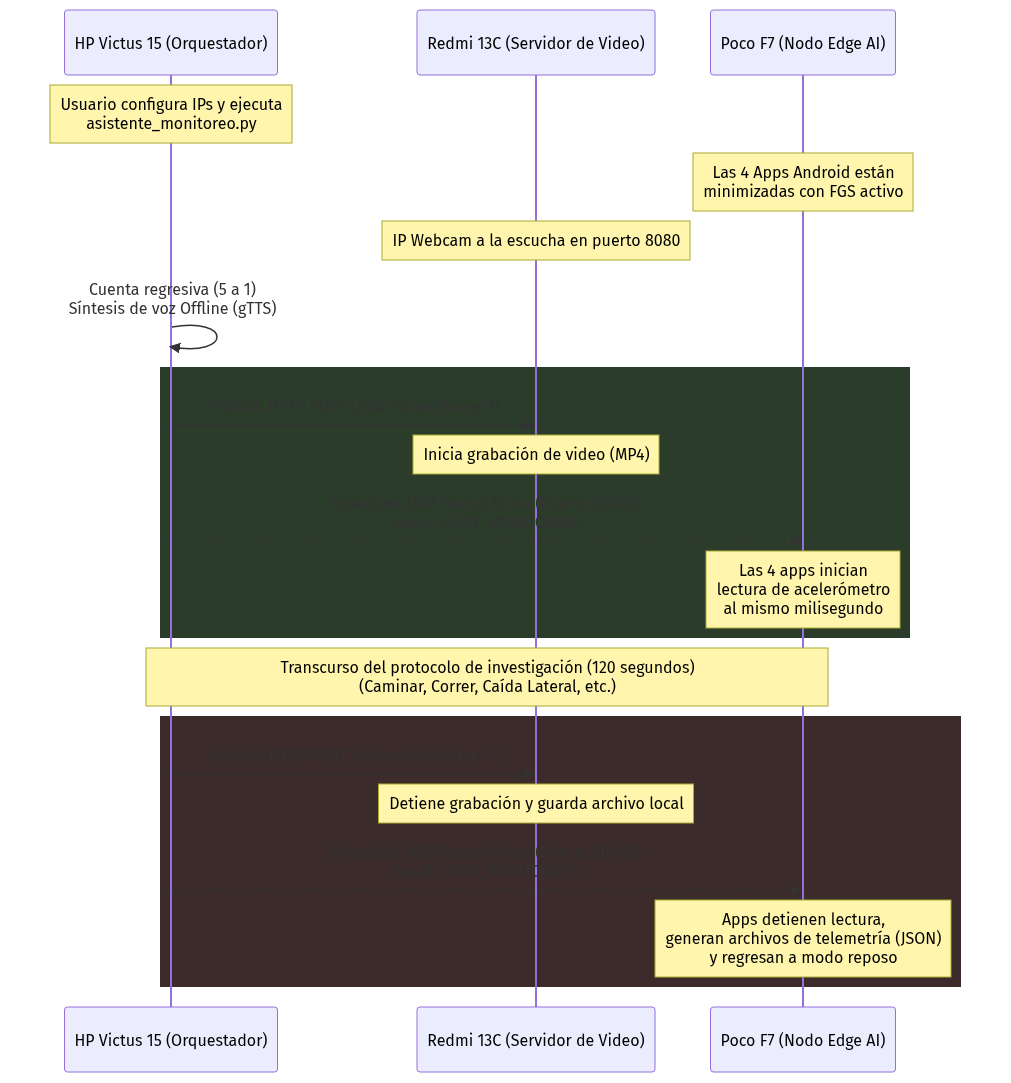
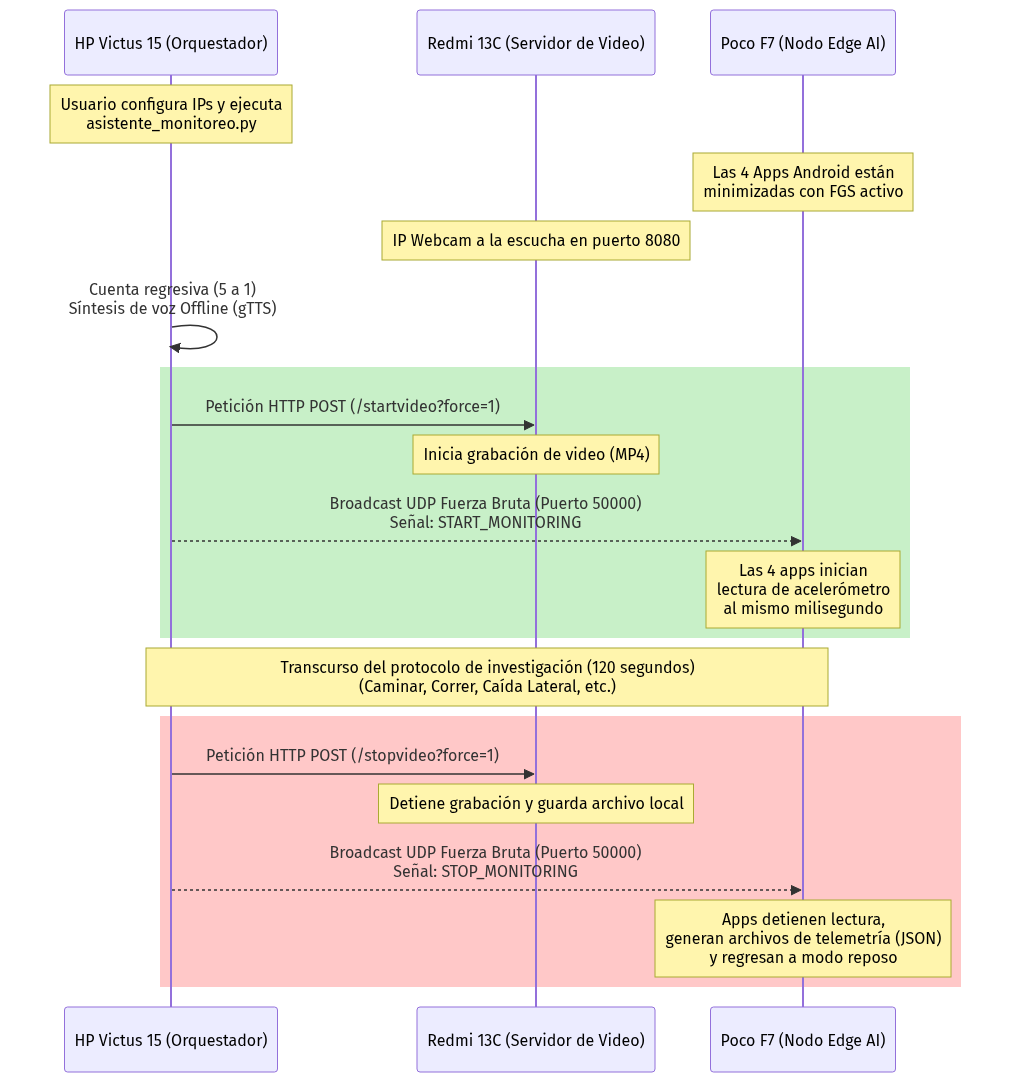
docs: Mejorado contraste y color de fondo del diagrama de flujo

diff --git a/README.md b/README.md
@@ -47,7 +47,7 @@ sequenceDiagram
     
     PC->>PC: Cuenta regresiva (5 a 1)<br/>Síntesis de voz Offline (gTTS)
     
-    rect rgb(43, 60, 43)
+    rect rgb(200, 240, 200)
     PC->>R13C: Petición HTTP POST (/startvideo?force=1)
     Note over R13C: Inicia grabación de video (MP4)
     
@@ -57,7 +57,7 @@ sequenceDiagram
     
     Note over PC,PF7: Transcurso del protocolo de investigación (120 segundos)<br/>(Caminar, Correr, Caída Lateral, etc.)
     
-    rect rgb(60, 43, 43)
+    rect rgb(255, 200, 200)
     PC->>R13C: Petición HTTP POST (/stopvideo?force=1)
     Note over R13C: Detiene grabación y guarda archivo local
     